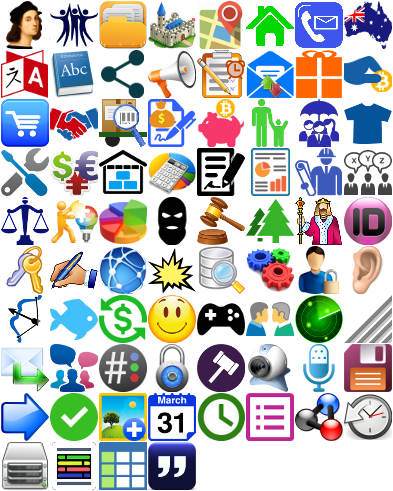
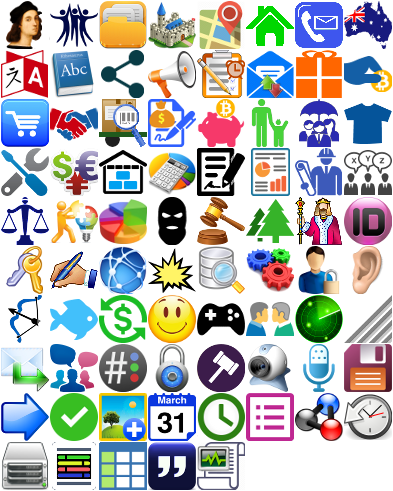
version 0.61 alpha

Changed region(s): [[0.4885, 0.8859, 0.6412, 1.0]]

diff --git a/pandora.rb b/pandora.rb
@@ -88,6 +88,7 @@ module PandoraUtils
   $show_log_level = LM_Trace
 
   $window = nil
+  $show_logbar_level = LM_Warning
 
   # Add the message to log
   # RU: Добавить сообщение в лог
@@ -110,6 +111,10 @@ module PandoraUtils
           log_view.buffer.delete(first, last)
         end
         log_view.after_addition
+        if $show_logbar_level and (level<=$show_logbar_level)
+          $show_logbar_level = nil
+          PandoraGtk.show_log_bar(80)
+        end
       end
       puts 'log: '+mes
     end
@@ -10811,16 +10816,17 @@ module PandoraGtk
 
   # Statusbar fields
   # RU: Поля в статусбаре
-  SF_Update  = 0
-  SF_Lang    = 1
-  SF_Auth    = 2
-  SF_Listen  = 3
-  SF_Hunt    = 4
-  SF_Conn    = 5
-  SF_Radar    = 6
-  SF_Fisher  = 7
-  SF_Search  = 8
-  SF_Harvest = 9
+  SF_Log     = 0
+  SF_Update  = 1
+  SF_Lang    = 2
+  SF_Auth    = 3
+  SF_Listen  = 4
+  SF_Hunt    = 5
+  SF_Conn    = 6
+  SF_Radar   = 7
+  SF_Fisher  = 8
+  SF_Search  = 9
+  SF_Harvest = 10
 
   # Advanced dialog window
   # RU: Продвинутое окно диалога
@@ -20915,6 +20921,44 @@ module PandoraGtk
     #$window.notebook.page = $window.notebook.n_pages-1
   end
 
+  # Show log bar
+  # RU: Показать log бар
+  def self.show_log_bar(new_size=nil)
+    vpaned = $window.log_vpaned
+    log_sw = $window.log_sw
+    if new_size and (new_size>=0) or (new_size.nil? \
+    and (log_sw.allocation.height <= 24)) #hpaned.position <= 20
+      if new_size and (new_size>=24)
+        log_sw.height_request = new_size if (new_size>log_sw.height_request)
+      else
+        log_sw.height_request = log_sw.allocation.height if log_sw.allocation.height > 24
+        log_sw.height_request = 200 if log_sw.height_request <= 24
+      end
+      vpaned.position = vpaned.max_position-log_sw.height_request
+    else
+      log_sw.height_request = log_sw.allocation.height
+      vpaned.position = vpaned.max_position
+    end
+    $window.correct_log_btn_state
+    #$window.notebook.children.each do |child|
+    #  if (child.is_a? RadarScrollWin)
+    #    $window.notebook.page = $window.notebook.children.index(child)
+    #    child.update_btn.clicked
+    #    return
+    #  end
+    #end
+    #sw = RadarScrollWin.new
+
+    #image = Gtk::Image.new(Gtk::Stock::JUSTIFY_LEFT, Gtk::IconSize::MENU)
+    #image.set_padding(2, 0)
+    #label_box = TabLabelBox.new(image, _('Fishes'), sw, false, 0) do
+    #  #sw.destroy
+    #end
+    #page = $window.notebook.append_page(sw, label_box)
+    #sw.show_all
+    #$window.notebook.page = $window.notebook.n_pages-1
+  end
+
   # Show fisher list
   # RU: Показать список рыбаков
   def self.show_fisher_panel
@@ -21215,8 +21259,9 @@ module PandoraGtk
   class GoodButton < Gtk::Frame
     attr_accessor :hbox, :image, :label, :active, :group_set
 
-    def initialize(astock, atitle=nil, atoggle=nil)
+    def initialize(astock, atitle=nil, atoggle=nil, atooltip=nil)
       super()
+      self.tooltip_text = atooltip if atooltip
       @group_set = nil
       if atoggle.is_a? Integer
         @group_set = atoggle
@@ -21358,7 +21403,7 @@ module PandoraGtk
   class MainWindow < Gtk::Window
     attr_accessor :hunter_count, :listener_count, :fisher_count, :log_view, :notebook, \
       :pool, :focus_timer, :title_view, :do_on_start, :radar_hpaned, :task_offset, \
-      :radar_sw
+      :radar_sw, :log_vpaned, :log_sw
 
     include PandoraUtils
 
@@ -21419,6 +21464,12 @@ module PandoraGtk
       #end
     end
 
+    def correct_log_btn_state
+      vpaned = $window.log_vpaned
+      an_active = (vpaned.max_position - vpaned.position) > 24
+      $window.set_status_field(PandoraGtk::SF_Log, nil, nil, an_active)
+    end
+
     # Show notice status
     # RU: Показать уведомления в статусе
     #def show_notice(change=nil)
@@ -21436,17 +21487,23 @@ module PandoraGtk
 
     # Add field to statusbar
     # RU: Добавляет поле в статусбар
-    def add_status_field(index, text, stock=nil, toggle=nil)
-      separ = Gtk::SeparatorToolItem.new
-      $statusbar.pack_start(separ, false, false, 0)
+    def add_status_field(index, text, tooltip=nil, stock=nil, toggle=nil, separ_pos=nil)
+      separ_pos ||= 1
+      if (separ_pos & 1)>0
+        $statusbar.pack_start(Gtk::SeparatorToolItem.new, false, false, 0)
+      end
       toggle_group = nil
       toggle_group = -1 if not toggle.nil?
-      btn = GoodButton.new(stock, text, toggle_group) do |*args|
+      tooltip = _(tooltip) if tooltip
+      btn = GoodButton.new(stock, text, toggle_group, tooltip) do |*args|
         yield(*args) if block_given?
       end
       btn.set_active(toggle) if not toggle.nil?
       $statusbar.pack_start(btn, false, false, 0)
       $status_fields[index] = btn
+      if (separ_pos & 2)>0
+        $statusbar.pack_start(Gtk::SeparatorToolItem.new, false, false, 0)
+      end
     end
 
     # Set properties of fiels in statusbar
@@ -22025,6 +22082,8 @@ module PandoraGtk
           #  btn.safe_set_active((key and key[PandoraCrypto::KV_Obj]))
           #end
         when 'Wizard'
+          PandoraGtk.show_log_bar(80)
+          return
           PandoraNet.start_or_stop_listen if PandoraNet.listen?
           PandoraNet.start_or_stop_hunt(false) if $hunter_thread
           $window.pool.close_all_session
@@ -22169,6 +22228,8 @@ module PandoraGtk
           PandoraGtk.show_session_panel
         when 'Radar'
           PandoraGtk.show_radar_panel
+        when 'LogBar'
+          PandoraGtk.show_log_bar
         when 'Fisher'
           PandoraGtk.show_fisher_panel
         else
@@ -22714,12 +22775,12 @@ module PandoraGtk
       log_view.set_readonly(true)
       log_view.border_width = 0
 
-      sw = Gtk::ScrolledWindow.new(nil, nil)
-      sw.set_policy(Gtk::POLICY_AUTOMATIC, Gtk::POLICY_AUTOMATIC)
-      sw.shadow_type = Gtk::SHADOW_IN
-      sw.add(log_view)
-      sw.border_width = 0;
-      sw.set_size_request(-1, 40)
+      @log_sw = Gtk::ScrolledWindow.new(nil, nil)
+      log_sw.set_policy(Gtk::POLICY_AUTOMATIC, Gtk::POLICY_AUTOMATIC)
+      log_sw.shadow_type = Gtk::SHADOW_IN
+      log_sw.add(log_view)
+      log_sw.border_width = 0;
+      log_sw.set_size_request(-1, 60)
 
       @radar_sw = RadarScrollWin.new
       radar_sw.set_size_request(0, -1)
@@ -22743,10 +22804,13 @@ module PandoraGtk
         $window.correct_fish_btn_state
       end
 
-      vpaned = Gtk::VPaned.new
-      vpaned.border_width = 2
-      vpaned.pack1(radar_hpaned, true, true)
-      vpaned.pack2(sw, false, true)
+      @log_vpaned = Gtk::VPaned.new
+      log_vpaned.border_width = 2
+      log_vpaned.pack1(radar_hpaned, true, true)
+      log_vpaned.pack2(log_sw, false, true)
+      log_vpaned.signal_connect('notify::position') do |widget, param|
+        $window.correct_log_btn_state
+      end
 
       #@cvpaned = CaptchaHPaned.new(vpaned)
       #@cvpaned.position = cvpaned.max_position
@@ -22756,6 +22820,11 @@ module PandoraGtk
       $statusbar.border_width = 0
       #$statusbar = Gtk::Statusbar.new
       #PandoraGtk.set_statusbar_text($statusbar, _('Base directory: ')+$pandora_base_dir)
+
+      add_status_field(SF_Log, nil, 'Logbar', :log, false, 0) do
+        do_menu_act('LogBar')
+      end
+
       path = $pandora_app_dir
       path = '..'+path[-40..-1] if path.size>40
       pathlabel = Gtk::Label.new(path)
@@ -22765,34 +22834,34 @@ module PandoraGtk
       pathlabel.set_alignment(0.0, 0.5)
       $statusbar.pack_start(pathlabel, true, true, 0)
 
-      add_status_field(SF_Update, _('Version') + ': ' + _('Not checked')) do
+      add_status_field(SF_Update, _('Version') + ': ' + _('Not checked'), 'Update') do
         PandoraGtk.start_updating(true)
       end
-      add_status_field(SF_Lang, $lang) do
+      add_status_field(SF_Lang, $lang, 'Language') do
         do_menu_act('Blob')
       end
-      add_status_field(SF_Auth, _('Not logged'), :auth, false) do
+      add_status_field(SF_Auth, _('Not logged'), 'Authorize', :auth, false) do
         do_menu_act('Authorize')          #Gtk::Stock::DIALOG_AUTHENTICATION
       end
-      add_status_field(SF_Listen, '0', :listen, false) do
+      add_status_field(SF_Listen, '0', 'Listen', :listen, false) do
         do_menu_act('Listen')
       end
-      add_status_field(SF_Hunt, '0', :hunt, false) do
+      add_status_field(SF_Hunt, '0', 'Hunting', :hunt, false) do
         do_menu_act('Hunt')
       end
-      add_status_field(SF_Fisher, '0', :fish) do
+      add_status_field(SF_Fisher, '0', 'Fishers', :fish) do
         do_menu_act('Fisher')
       end
-      add_status_field(SF_Conn, '0', :session) do
+      add_status_field(SF_Conn, '0', 'Sessions', :session) do
         do_menu_act('Session')
       end
-      add_status_field(SF_Radar, '0', :radar, false) do
+      add_status_field(SF_Radar, '0', 'Radar', :radar, false) do
         do_menu_act('Radar')
       end
-      add_status_field(SF_Harvest, '0', :blob) do
+      add_status_field(SF_Harvest, '0', 'Files', :blob) do
         do_menu_act('Blob')
       end
-      add_status_field(SF_Search, '0', Gtk::Stock::FIND) do
+      add_status_field(SF_Search, '0', 'Search', Gtk::Stock::FIND) do
         do_menu_act('Search')
       end
       resize_eb = Gtk::EventBox.new
@@ -22850,7 +22919,7 @@ module PandoraGtk
       vbox.pack_start(menubar, false, false, 0)
       vbox.pack_start(toolbar, false, false, 0)
       #vbox.pack_start(cvpaned, true, true, 0)
-      vbox.pack_start(vpaned, true, true, 0)
+      vbox.pack_start(log_vpaned, true, true, 0)
       stat_sw = Gtk::ScrolledWindow.new(nil, nil)
       stat_sw.set_policy(Gtk::POLICY_AUTOMATIC, Gtk::POLICY_NEVER)
       stat_sw.border_width = 0
@@ -22977,21 +23046,9 @@ module PandoraGtk
       #  false
       #end
       $window.do_on_start = PandoraUtils.get_param('do_on_start')
-      $window.signal_connect('show') do |window, event|
-        if $window.do_on_start and ($window.do_on_start > 0)
-          key = PandoraCrypto.current_key(false, true)
-          if (($window.do_on_start & 2) != 0) and key and (not PandoraNet.listen?)
-            PandoraNet.start_or_stop_listen
-          end
-          if (($window.do_on_start & 4) != 0) and key and (not $hunter_thread)
-            PandoraNet.start_or_stop_hunt(true, 2)
-          end
-          $window.do_on_start = 0
-        end
-        scheduler_step = PandoraUtils.get_param('scheduler_step')
-        init_scheduler(scheduler_step)
-        false
-      end
+      #$window.signal_connect('show') do |window, event|
+      #  false
+      #end
 
       @pool = PandoraNet::Pool.new($window)
 
@@ -23000,6 +23057,20 @@ module PandoraGtk
       $window.show_all
 
       @radar_hpaned.position = @radar_hpaned.max_position
+      @log_vpaned.position = @log_vpaned.max_position
+      if $window.do_on_start and ($window.do_on_start > 0)
+        key = PandoraCrypto.current_key(false, true)
+        if (($window.do_on_start & 2) != 0) and key and (not PandoraNet.listen?)
+          PandoraNet.start_or_stop_listen
+        end
+        if (($window.do_on_start & 4) != 0) and key and (not $hunter_thread)
+          PandoraNet.start_or_stop_hunt(true, 2)
+        end
+        $window.do_on_start = 0
+      end
+      scheduler_step = PandoraUtils.get_param('scheduler_step')
+      init_scheduler(scheduler_step)
+
 
       #------next must be after show main form ---->>>>
 
